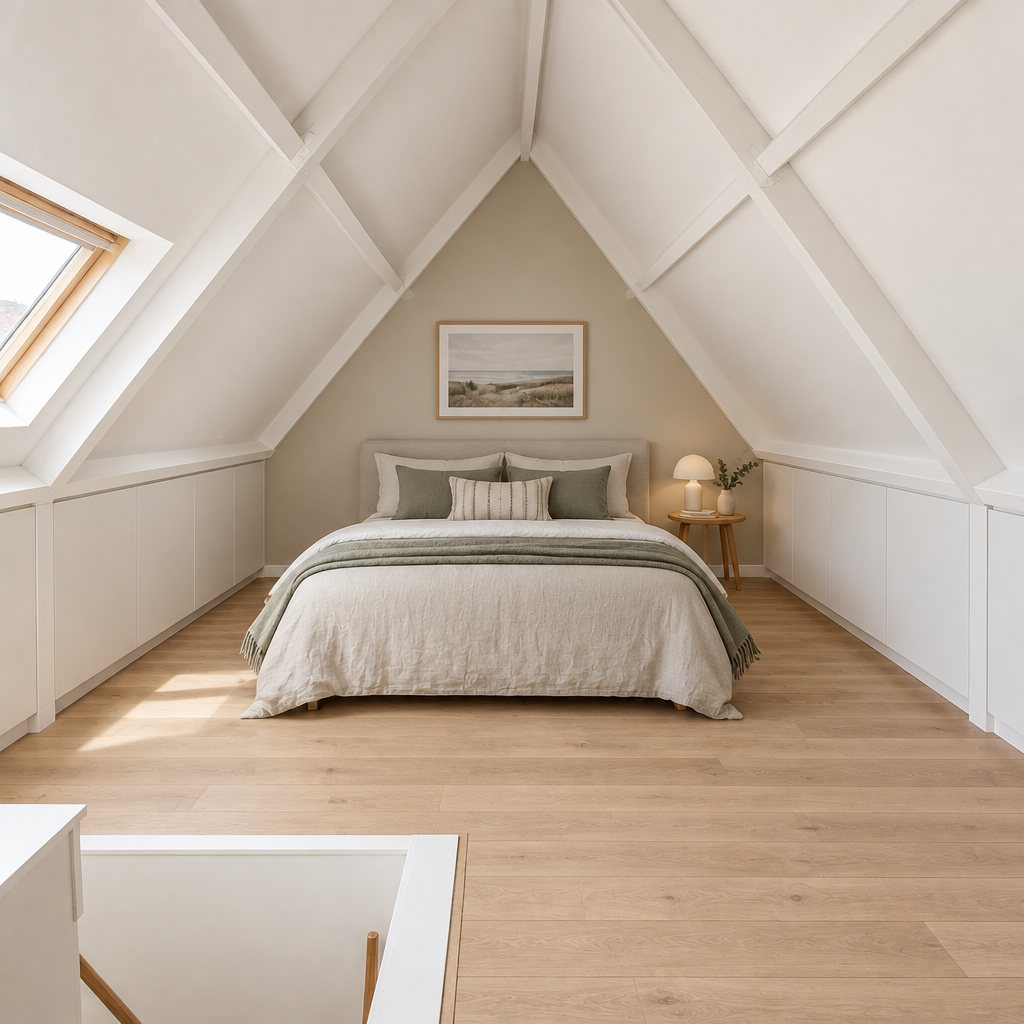
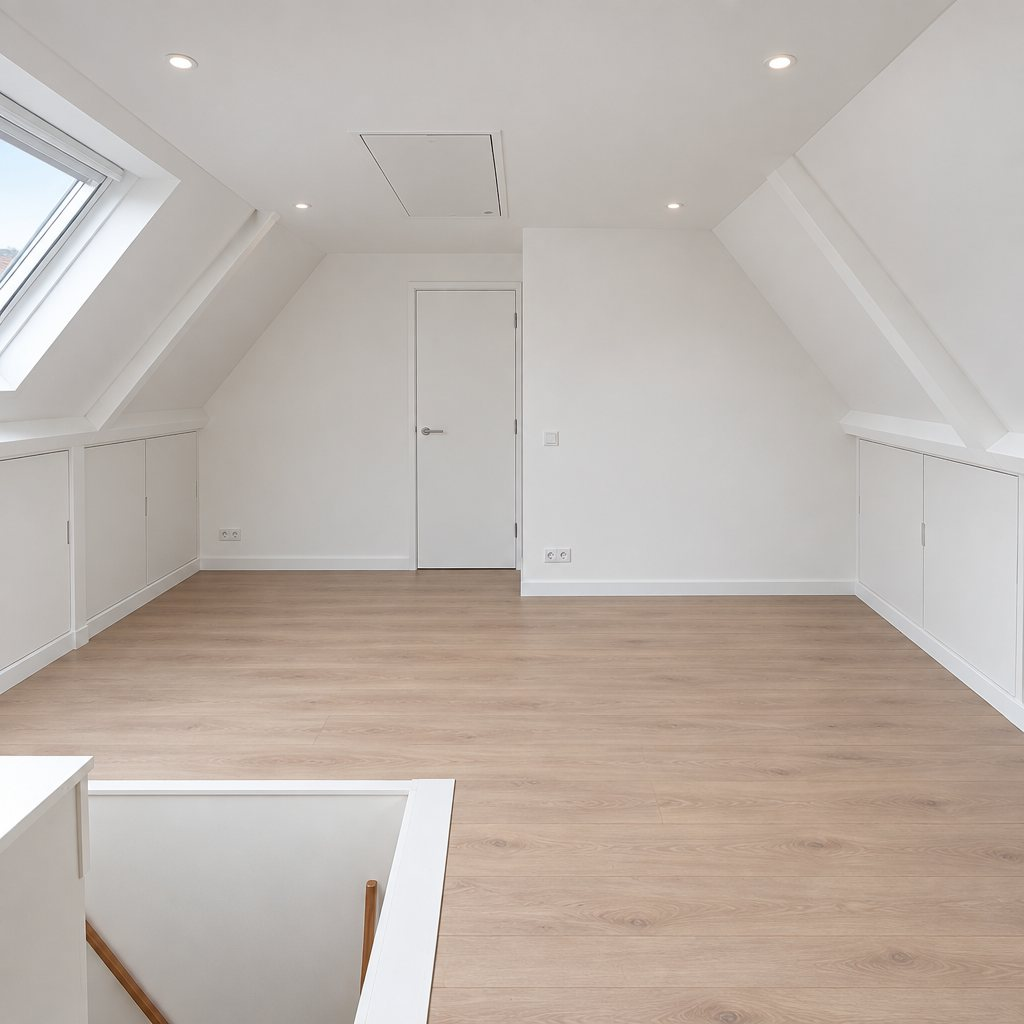
Zolder-na met vliering (naar Ozcans eigen project), tekst aangepast

diff --git a/preview/d-vitrine.html b/preview/d-vitrine.html
@@ -204,7 +204,7 @@ section{position:relative;background:var(--vlak);color:var(--inkt);overflow:hidd
       <!-- 02 ZOLDER -->
       <article class="rij">
         <div class="vak"><div class="vitrine v-zolder" style="--bg:#9cb189;--tag:#e7f0de">
-          <img class="beeld" src="../assets/render/echt/web/zolder-na.jpg" alt="Afgewerkte zolderkamer">
+          <img class="beeld" src="../assets/render/echt/web/zolder-na.jpg" alt="Afgewerkte zolder met vliering en bergruimte">
           <div class="voor"><img src="../assets/render/echt/web/zolder-voor.jpg" alt="Kale zolder vóór de verbouwing"></div>
           <div class="greep"></div>
           <span class="vl l">Voor</span><span class="vl r">Na</span>
@@ -212,7 +212,7 @@ section{position:relative;background:var(--vlak);color:var(--inkt);overflow:hidd
         </div></div>
         <div class="tekst"><span class="nr">02 — Vliering &amp; zolder</span>
           <h3>Een hele verdieping erbij.</h3>
-          <p>Van een donkere, ongebruikte zolder naar een volwaardige kamer: vloer, wanden, isolatie en afwerking door één ploeg.</p>
+          <p>Van een rommelige zolder naar een strakke, lichte ruimte — met een vliering erboven voor extra bergruimte. Vloer, wanden, isolatie en afwerking door één ploeg.</p>
           <ul class="werk"><li>Vliering plaatsen</li><li>Zolder isoleren</li><li>Wanden &amp; plafonds</li><li>Trapgat</li></ul>
           <a class="pil" href="#">Vraag advies over uw zolder</a></div>
       </article>
